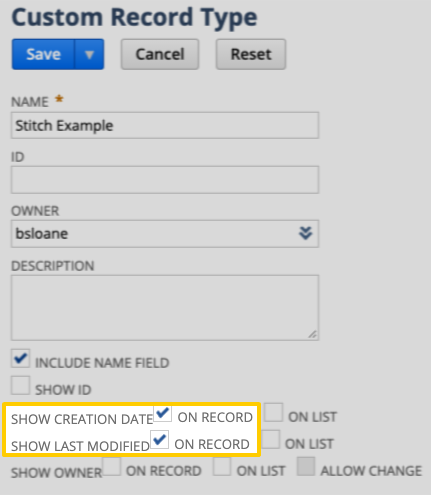
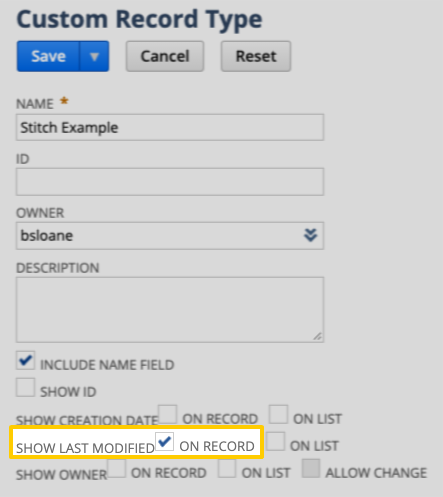
Update content for custom record tables

diff --git a/_integration-schemas/netsuite/custom_record.md b/_integration-schemas/netsuite/custom_record.md
@@ -2,13 +2,15 @@
 tap: "netsuite"
 version: "1.0"
 
-name: "customrecord_[custom_record_type]"
+name: "customrecord_[custom_record_name]"
 doc-link: ""
 singer-schema: "https://github.com/singer-io/tap-netsuite/blob/master/tap_netsuite/schemas/Transaction.json"
 description: |
   For each custom record type in {{ integration.display_name }}, a table for that custom record type will be available for selection in Stitch.
 
-  Custom record tables are named `{{ table.name }}`, where `[custom_record_type]` is the name of the custom record in {{ integration.display_name }}. For example: If a custom record were named `promo discount` in {{ integration.display_name }}, the corresponding table for those records would be named `{{ table.name | replace: "[custom_record_type]","promo_discount" }}`.
+  Custom record tables are named `{{ table.name }}`, where `[custom_record_name]` is the value of the ID field in the Custom Record Setup page in {{ integration.display_name }}.
+
+  For example: If a custom record were named `promo discount` in {{ integration.display_name }}, the corresponding table for those records would be named `{{ table.name | replace: "[custom_record_name]","promo_discount" }}`. If the ID field in the Custom Record Setup page is left blank, {{ integration.display_name }} will auto-assign a numerical ID to the record. In Stitch, the table for the custom record would then be something like `customrecord_123`, where `123` is the ID auto-assigned by {{ integration.display_name }}.
 
   **Note**: The Replication Method Stitch uses to replicate custom record types depends on how custom records are configured in {{ integration.display_name }}. Refer to the [Custom records](#custom-records) section for more info.
 
@@ -26,7 +28,7 @@ attributes:
     description: |
       The time the record was last updated.
 
-      **Note**: This field will be available only if the custom record type has **Show Last Modified** or **Show Creation Date** enabled in {{ integration.display_name }}. Refer to the [Custom records](#custom-records) section for more info.
+      **Note**: This field will be available only if the custom record type has **Show Last Modified** enabled in {{ integration.display_name }}. Refer to the [Custom records](#custom-records) section for more info.
 
   - name: "Fields selected by you"
     description: |

diff --git a/_saas-integrations/netsuite/v1/netsuite-v1.md b/_saas-integrations/netsuite/v1/netsuite-v1.md
@@ -266,7 +266,11 @@ replication-sections:
       - title: "Table names for custom record types"
         anchor: "custom-record-types-table-names"
         content: |
-          Custom record tables are named `customrecord_[custom_record_type]`, where `[custom_record_type]` is the name of the custom record in {{ integration.display_name }}. For example: If a custom record were named `promo discount` in {{ integration.display_name }}, the corresponding table for those records would be named `customrecord_promo_discount`.
+          Custom record tables are named `customrecord_[custom_record_name]`, where `[custom_record_name]` is the value of the ID field in the Custom Record Setup page in {{ integration.display_name }}.
+
+          For example: If a custom record were named `promo discount` in {{ integration.display_name }}, the corresponding table for those records would be named `customrecord_promo_discount`.
+
+          If the ID field in the Custom Record Setup page is left blank, {{ integration.display_name }} will auto-assign a numerical ID to the record. In Stitch, the table for the custom record would then be something like `customrecord_123`, where `123` is the ID auto-assigned by {{ integration.display_name }}.
 
       - title: "Replication methods for custom record types"
         anchor: "custom-record-type-replication"
